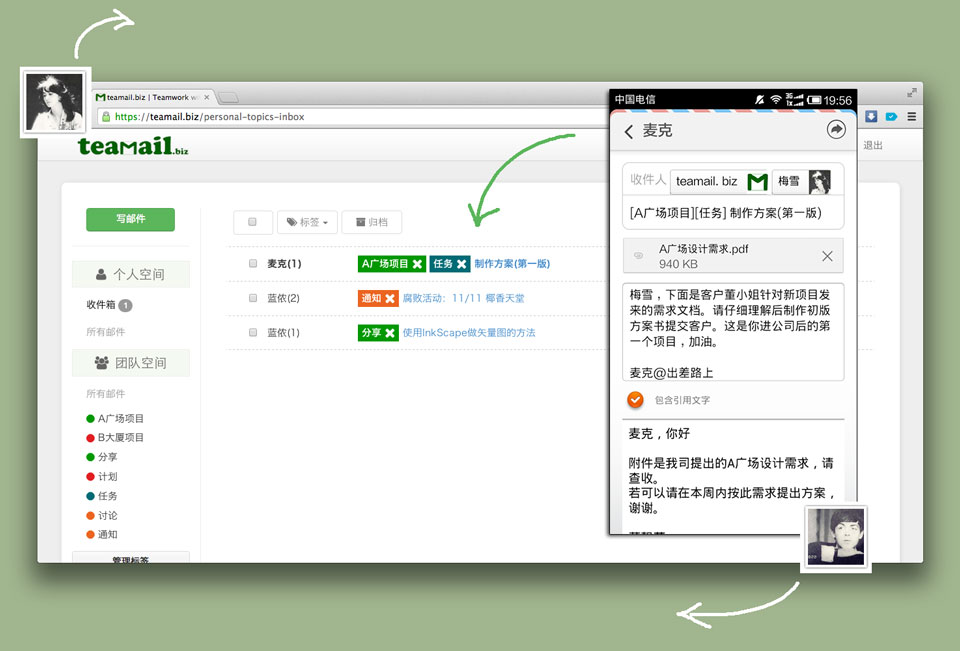
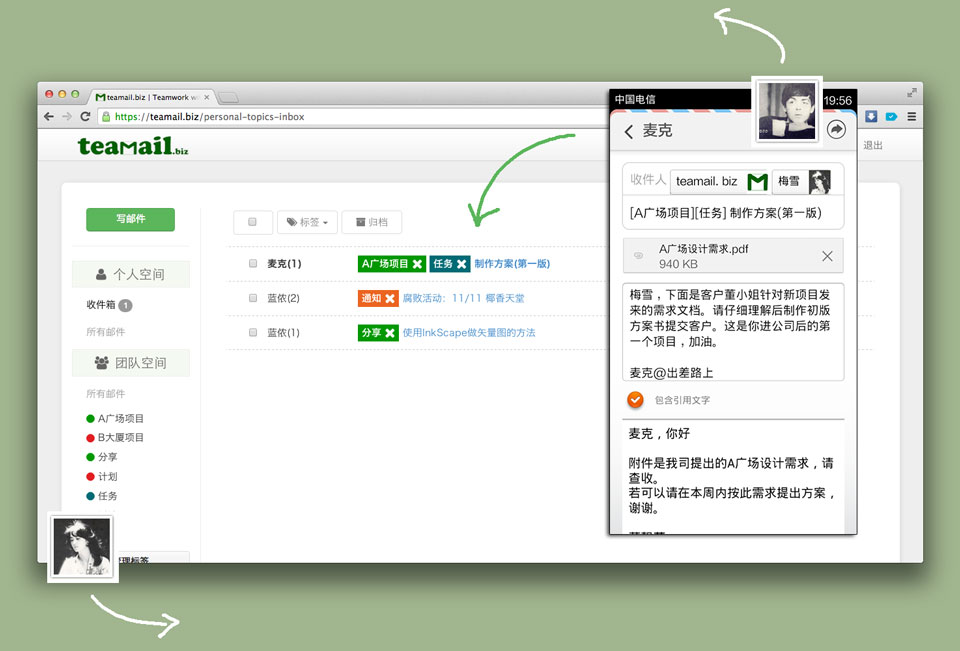
modify content in landing page user story

diff --git a/app/assets/stylesheets/controllers/home.css.scss b/app/assets/stylesheets/controllers/home.css.scss
@@ -192,10 +192,10 @@ body.home {
     background: image-url("user-story-bg-01.jpg") no-repeat center bottom;
   }
   .us1-top {
-    padding-top: 10px;
+    padding-top: 5px;
   }
   .us1-bottom {
-    padding-top: 530px;
+    padding-top: 550px;
   }
   .user-story-2 {
     height: 600px;
